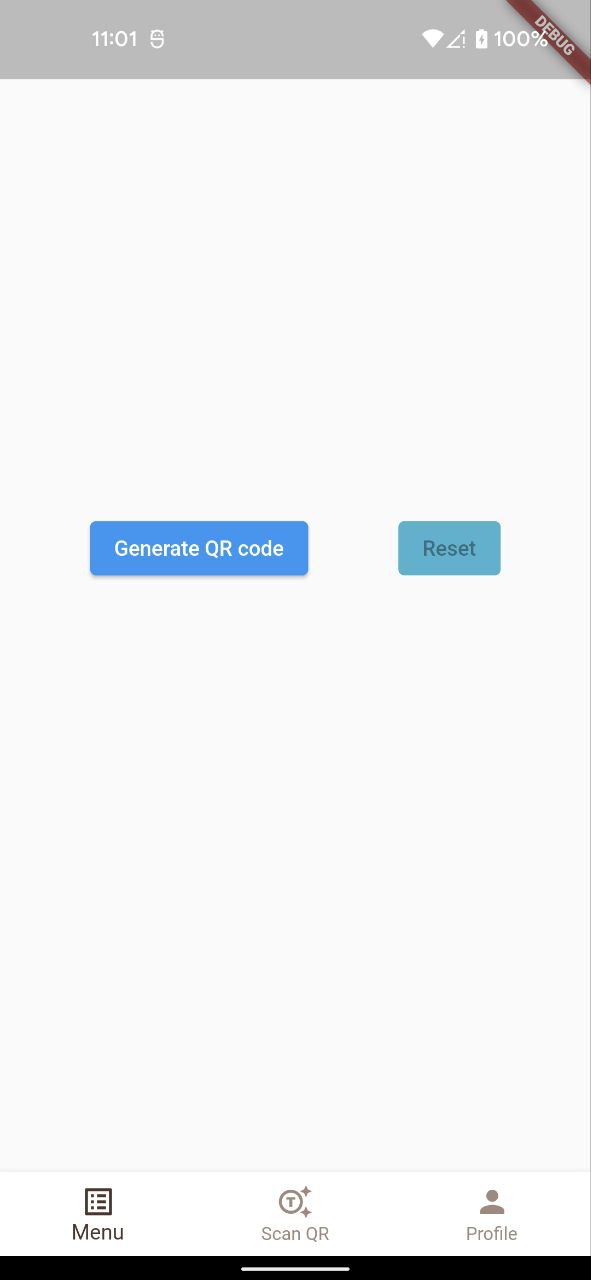
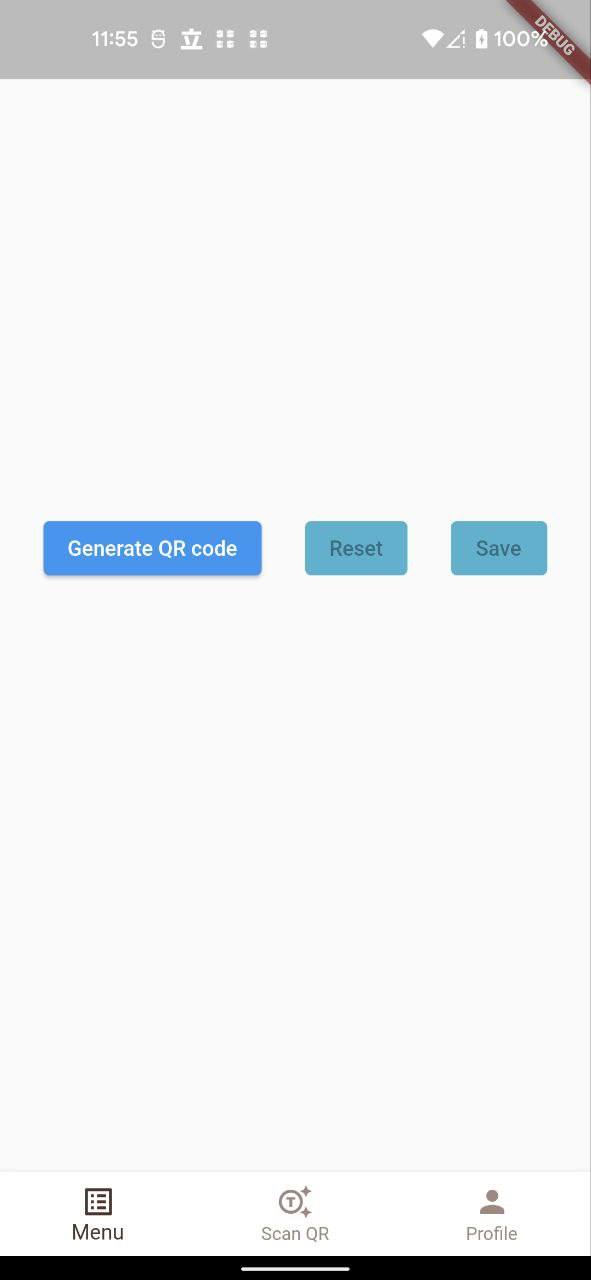
Squashed commit of the following:
commit 2c84ca9d02867a7c182bcdce88ab3f353452a31d
Author: HoangNguyen679 <ndhoang96@gmail.com>
Date:   Sun Jul 31 11:59:40 2022 +0900

    Update image

commit fc1b3308a0596512d6f611354438b8635060e098
Author: HoangNguyen679 <ndhoang96@gmail.com>
Date:   Sun Jul 31 11:53:10 2022 +0900

    Fix Readme

commit 3c96edf57205fd6044a55d2ce28a7d9073371a9a
Author: HoangNguyen679 <ndhoang96@gmail.com>
Date:   Sun Jul 31 11:51:00 2022 +0900

    Show dialog after saved

commit c31d298b6cd658431cfd3c40b7c60a1ace572954
Author: HoangNguyen679 <ndhoang96@gmail.com>
Date:   Sun Jul 31 11:14:15 2022 +0900

    Add save qr code handle

commit 10bba27fc23fe9ca808b9c4d88bff7f6e00c46bd
Author: HoangNguyen679 <ndhoang96@gmail.com>
Date:   Sun Jul 31 10:49:32 2022 +0900

    Add lib for save qr code and permission

diff --git a/lib/screen/generate_qr_code_screen.dart b/lib/screen/generate_qr_code_screen.dart
@@ -1,8 +1,13 @@
 import 'dart:async';
+import 'dart:io';
 import 'dart:math';
 import 'dart:ui' as ui;
 import 'package:flutter/material.dart';
+import 'package:flutter/rendering.dart';
 import 'package:flutter/services.dart';
+import 'package:gallery_saver/gallery_saver.dart';
+import 'package:path_provider/path_provider.dart';
+import 'package:permission_handler/permission_handler.dart';
 import 'package:qr_flutter/qr_flutter.dart';
 
 // import '../helper/encryption.dart';
@@ -18,6 +23,7 @@ class GenerateQrCodeScreen extends StatefulWidget {
 class _GenerateQrCodeScreenState extends State<GenerateQrCodeScreen> {
   String qrData = '';
   bool isGenerated = false;
+  final qrKey = GlobalKey();
 
   Future<ui.Image> _loadOverlayImage() async {
     final completer = Completer<ui.Image>();
@@ -44,6 +50,54 @@ class _GenerateQrCodeScreenState extends State<GenerateQrCodeScreen> {
     });
   }
 
+  Future<void> saveQrCode(BuildContext context) async {
+    PermissionStatus permission;
+    permission = await Permission.storage.request();
+
+    if (permission.isGranted) {
+      if (qrKey.currentContext != null) {
+        final boundary =
+            qrKey.currentContext?.findRenderObject() as RenderRepaintBoundary;
+        final image = await boundary.toImage(pixelRatio: 5.0);
+        final byteData =
+            await (image.toByteData(format: ui.ImageByteFormat.png));
+        if (byteData != null) {
+          final pngBytes = byteData.buffer.asUint8List();
+          final directory = (await getApplicationDocumentsDirectory()).path;
+          final imgFile = File(
+            '$directory/${DateTime.now()}$qrData.png',
+          );
+          imgFile.writeAsBytes(pngBytes);
+          GallerySaver.saveImage(imgFile.path).then((success) {
+            showDialog(
+              context: context,
+              builder: (context) {
+                Timer(const Duration(seconds: 1), () {
+                  Navigator.of(context).pop();
+                });
+
+                return AlertDialog(
+                  content: Row(
+                    mainAxisAlignment: MainAxisAlignment.center,
+                    children: const [
+                      Text('Save!'),
+                    ],
+                  ),
+                  // actions: [
+                  //   TextButton(
+                  //     onPressed: () => Navigator.pop(context),
+                  //     child: const Text('OK'),
+                  //   )
+                  // ],
+                );
+              },
+            );
+          });
+        }
+      }
+    }
+  }
+
   Random rnd = Random();
 
   String getRandomString(int length) {
@@ -65,6 +119,31 @@ class _GenerateQrCodeScreenState extends State<GenerateQrCodeScreen> {
                 CustomButton.onPressedByCondition(isGenerated, generateQrCode)),
             CustomButton.customButton(context, 'Reset',
                 CustomButton.onPressedByCondition(!isGenerated, resetQrCode)),
+            isGenerated
+                ? ElevatedButton(
+                    onPressed: () async {
+                      await saveQrCode(context);
+                    },
+                    child: const Text('Save'),
+                  )
+                : ElevatedButton(
+                    onPressed: null,
+                    style: ButtonStyle(
+                      backgroundColor: MaterialStateProperty.resolveWith(
+                          (Set<MaterialState> states) {
+                        if (states.contains(MaterialState.pressed)) {
+                          return Theme.of(context)
+                              .colorScheme
+                              .primary
+                              .withOpacity(0.5);
+                        } else if (states.contains(MaterialState.disabled)) {
+                          return const Color(0xFF43b2d1);
+                        }
+                        return null;
+                      }),
+                    ),
+                    child: const Text('Save'),
+                  )
           ],
         ),
         const SizedBox(
@@ -74,33 +153,36 @@ class _GenerateQrCodeScreenState extends State<GenerateQrCodeScreen> {
           visible: isGenerated && qrData.isNotEmpty,
           child: SizedBox(
             width: 280,
-            child: FutureBuilder<ui.Image>(
-              future: _loadOverlayImage(),
-              builder: (ctx, snapshot) {
-                const size = 280.0;
-                if (!snapshot.hasData) {
-                  return const SizedBox(width: size, height: size);
-                }
-                return CustomPaint(
-                  size: const Size.square(size),
-                  painter: QrPainter(
-                    data: qrData,
-                    version: QrVersions.auto,
-                    // eyeStyle: const QrEyeStyle(
-                    //   eyeShape: QrEyeShape.square,
-                    //   color: Color(0xff128760),
-                    // ),
-                    // dataModuleStyle: const QrDataModuleStyle(
-                    //   dataModuleShape: QrDataModuleShape.circle,
-                    //   color: Color(0xff1a5441),
-                    // ),
-                    // embeddedImage: snapshot.data,
-                    // embeddedImageStyle: QrEmbeddedImageStyle(
-                    //   size: const Size.square(60),
-                    // ),
-                  ),
-                );
-              },
+            child: RepaintBoundary(
+              key: qrKey,
+              child: FutureBuilder<ui.Image>(
+                future: _loadOverlayImage(),
+                builder: (ctx, snapshot) {
+                  const size = 280.0;
+                  if (!snapshot.hasData) {
+                    return const SizedBox(width: size, height: size);
+                  }
+                  return CustomPaint(
+                    size: const Size.square(size),
+                    painter: QrPainter(
+                      data: qrData,
+                      version: QrVersions.auto,
+                      // eyeStyle: const QrEyeStyle(
+                      //   eyeShape: QrEyeShape.square,
+                      //   color: Color(0xff128760),
+                      // ),
+                      // dataModuleStyle: const QrDataModuleStyle(
+                      //   dataModuleShape: QrDataModuleShape.circle,
+                      //   color: Color(0xff1a5441),
+                      // ),
+                      // embeddedImage: snapshot.data,
+                      // embeddedImageStyle: QrEmbeddedImageStyle(
+                      //   size: const Size.square(60),
+                      // ),
+                    ),
+                  );
+                },
+              ),
             ),
           ),
         ),

diff --git a/macos/Flutter/GeneratedPluginRegistrant.swift b/macos/Flutter/GeneratedPluginRegistrant.swift
@@ -7,8 +7,10 @@ import Foundation
 
 import flutter_appauth
 import flutter_secure_storage_macos
+import path_provider_macos
 
 func RegisterGeneratedPlugins(registry: FlutterPluginRegistry) {
   FlutterAppauthPlugin.register(with: registry.registrar(forPlugin: "FlutterAppauthPlugin"))
   FlutterSecureStorageMacosPlugin.register(with: registry.registrar(forPlugin: "FlutterSecureStorageMacosPlugin"))
+  PathProviderPlugin.register(with: registry.registrar(forPlugin: "PathProviderPlugin"))
 }

diff --git a/lib/main.dart b/lib/main.dart
@@ -4,20 +4,11 @@ import 'package:flutter_dotenv/flutter_dotenv.dart';
 
 import 'dart:async';
 
-import 'package:logger/logger.dart';
 import 'package:hooks_riverpod/hooks_riverpod.dart';
 
 import 'router.dart';
 
 import 'shared_state/auth0_login_info.dart';
-
-final logger = Logger(
-  printer: PrettyPrinter(),
-);
-
-/// -------------------------------
-/// App
-/// -------------------------------
 
 Future main() async {
   await dotenv.load(fileName: ".env.development");

diff --git a/windows/flutter/generated_plugin_registrant.cc b/windows/flutter/generated_plugin_registrant.cc
@@ -7,8 +7,11 @@
 #include "generated_plugin_registrant.h"
 
 #include <flutter_secure_storage_windows/flutter_secure_storage_windows_plugin.h>
+#include <permission_handler_windows/permission_handler_windows_plugin.h>
 
 void RegisterPlugins(flutter::PluginRegistry* registry) {
   FlutterSecureStorageWindowsPluginRegisterWithRegistrar(
       registry->GetRegistrarForPlugin("FlutterSecureStorageWindowsPlugin"));
+  PermissionHandlerWindowsPluginRegisterWithRegistrar(
+      registry->GetRegistrarForPlugin("PermissionHandlerWindowsPlugin"));
 }

diff --git a/README.md b/README.md
@@ -37,19 +37,21 @@ Below is stack I used and linked I consulted
 ### QR Code
 
 - [Good post](https://itnext.io/qr-code-in-flutter-9b7072343598) about QR Code handlers.
-- This example just scan QR code, display it and random generate a QR code.
-- I also want to try send request when a QR code is scanned and save a generated QR code. (Just note here for memo)
+- This example:
+  - scan QR code and display its content
+  - random generate a QR code and save to gallery
+- I also want to try send request when a QR code is scanned. (Just note here for memo)
 
 ## Result Images
 
 <p align="middle">
-<img src="source_image/login.jpeg" alt="login" width="250"/> 
-<img src="source_image/menu.jpeg" alt="menu" width="250"/>
-<img src="source_image/generated_qr_code.jpeg" alt="generated_qr_code" width="250"/>
+  <img src="source_image/login.jpeg" alt="login" width="250"/>
+  <img src="source_image/menu.jpeg" alt="menu" width="250"/>
+  <img src="source_image/generated_qr_code.jpeg" alt="generated_qr_code" width="250"/>
 </p>
 <p align="middle">
-<img src="source_image/scan_qr_code.jpeg" alt="scan_qr_code" width="250"/>
-<img src="source_image/scanned_qr_code.jpeg" alt="scanned_qr_code" width="250"/>
-<img src="source_image/profile.jpeg" alt="profile" width="250"/>
+  <img src="source_image/scan_qr_code.jpeg" alt="scan_qr_code" width="250"/>
+  <img src="source_image/scanned_qr_code.jpeg" alt="scanned_qr_code" width="250"/>
+  <img src="source_image/profile.jpeg" alt="profile" width="250"/>
 </p>
 
